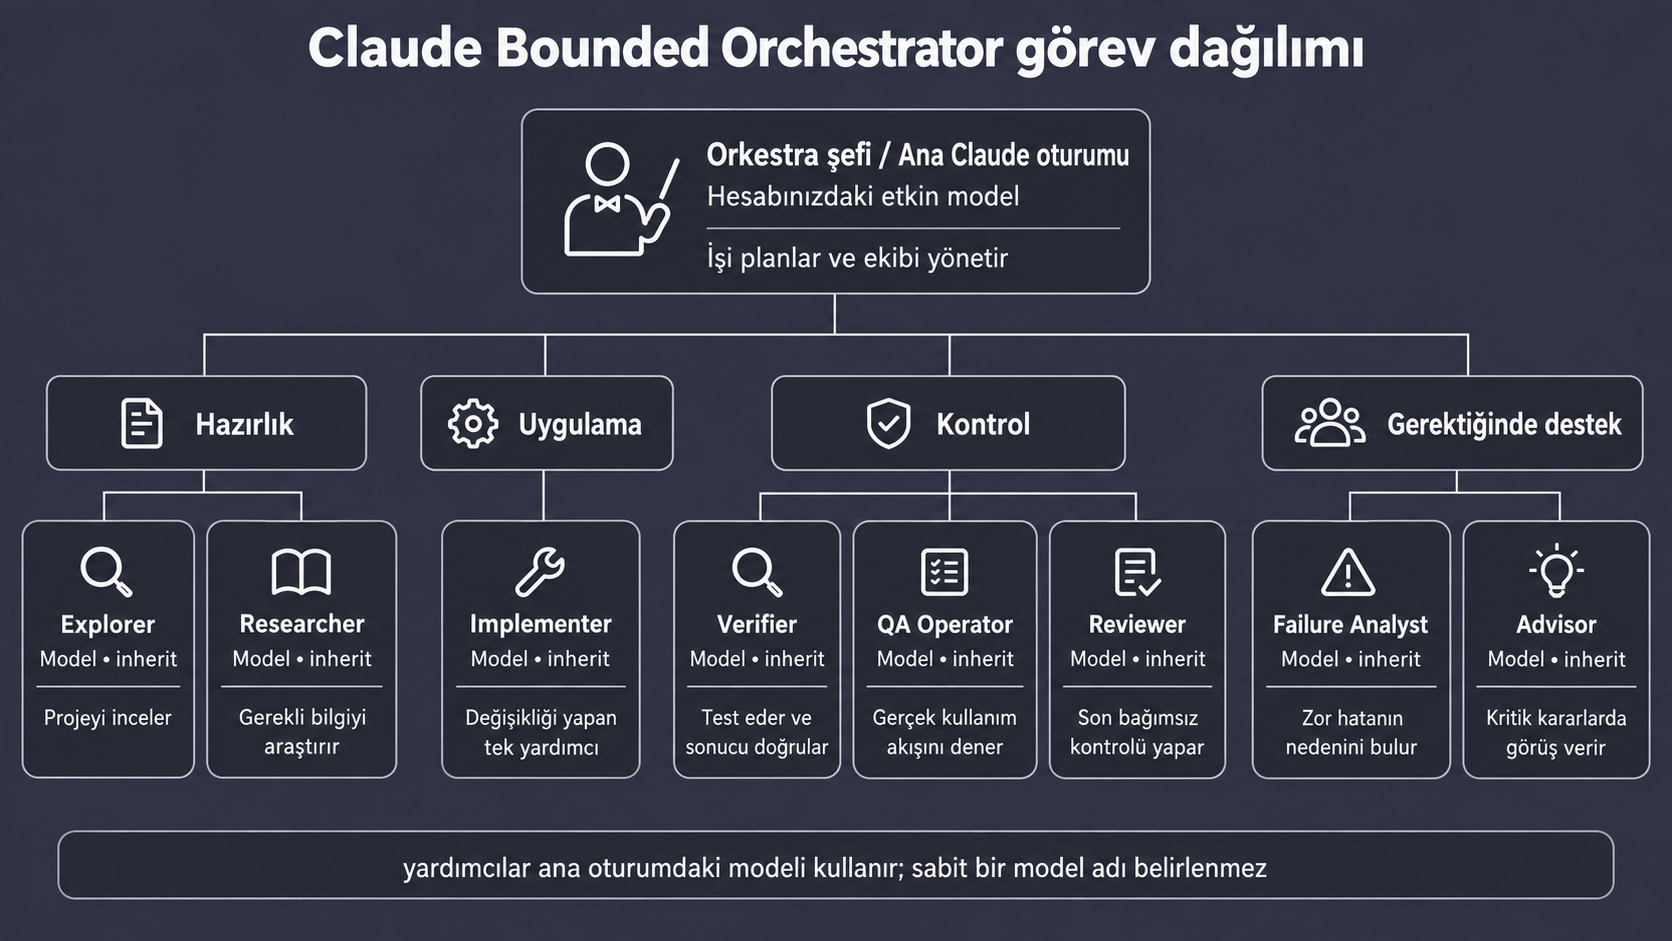
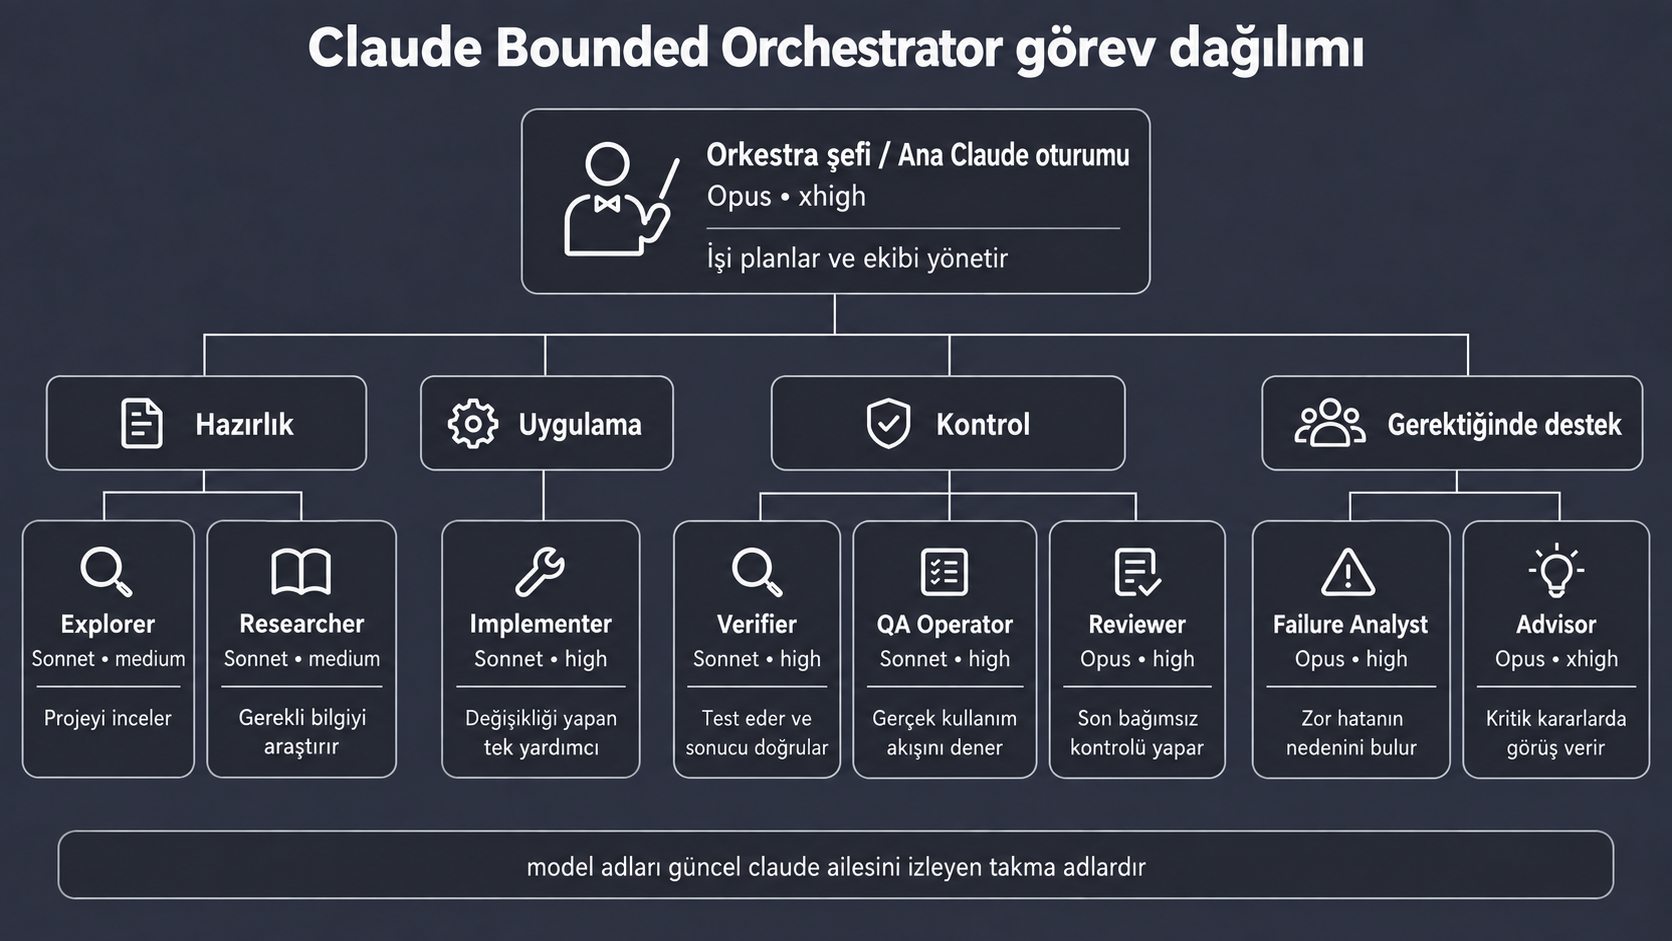
docs: align Claude role graphic and Turkish notes

diff --git a/docs/release-v0.2.0.tr.md b/docs/release-v0.2.0.tr.md
@@ -1,0 +1,29 @@
+[English](release-v0.2.0.md) | [Türkçe](release-v0.2.0.tr.md)
+
+# Claude Bounded Orchestrator v0.2.0
+
+0.2.0 sürümü, tarihli model kimliklerini sabitlemeden her rol için hedeflenen Claude model ailesini ve düşünme düzeyini açıkça belirtir.
+
+## Görev dağılımı
+
+| Rol | Model kısa adı | Düşünme düzeyi |
+|---|---|---|
+| Ana yönetici | `opus` | `xhigh` |
+| İnceleyici | `sonnet` | `medium` |
+| Araştırmacı | `sonnet` | `medium` |
+| Uygulayıcı | `sonnet` | `high` |
+| Kontrolcü | `sonnet` | `high` |
+| Kullanım kontrolcüsü | `sonnet` | `high` |
+| Hata çözümleyici | `opus` | `high` |
+| Son inceleyici | `opus` | `high` |
+| Danışman | `opus` | `xhigh` |
+
+## Güncelleme davranışı
+
+Yeni kurulumda ana yöneticinin varsayılanları `.claude/settings.json` dosyasına yazılır. Bu dosya zaten varsa kurulum onu korur ve elle inceleyip birleştirmeniz için `.claude/bounded-orchestrator.settings.example.json` oluşturur. Yardımcı dosyalarında çakışma varsa `--force` açıkça seçilmedikçe mevcut dosyalar korunur.
+
+Ortam değişkenleri ile oturum veya çalıştırma sırasında verilen seçenekler proje ayarlarının önüne geçebilir. Yardımcı dosyalarındaki ayarlar, desteklendiği yerde hedeflenen rol dağılımını belirtir; ortam düzeyindeki efor ayarı daha yüksek önceliğe sahip olabilir. Kullanılabilen modeller ve efor düzeyleri hesaba ve güncel Claude Code istemcisine bağlıdır.
+
+## Doğrulama sınırı
+
+Statik doğrulama ve testler, ayarlar ile belgelerin yardımcı tanımlarından sessizce uzaklaşmaması için görev dağılımının tamamını kontrol eder. Gerçek model seçimi Claude Code çalışma zamanına bağlıdır ve belgelenen canlı deneme ile doğrulanmalıdır.

diff --git a/README.tr.md b/README.tr.md
@@ -128,7 +128,7 @@ Talimatlar tek başına kesin bir güvenlik sınırı değildir. Yardımcı deri
 - [Sık sorulan sorular ve sorun giderme](docs/faq.md)
 - [Yol haritası](docs/roadmap.md)
 - [Canlı deneme rehberi](docs/runtime-smoke-test.md)
-- [v0.2.0 sürüm notları](docs/release-v0.2.0.md)
+- [v0.2.0 sürüm notları](docs/release-v0.2.0.tr.md)
 - [macOS/Linux kurulumu](INSTALL-MACOS.md)
 - [Windows kurulumu](INSTALL-WINDOWS.md)
 - [Katkı rehberi](CONTRIBUTING.md) · [Güvenlik](SECURITY.md) · [Değişiklikler](CHANGELOG.md)

diff --git a/docs/release-v0.2.0.md b/docs/release-v0.2.0.md
@@ -1,3 +1,5 @@
+[English](release-v0.2.0.md) | [Türkçe](release-v0.2.0.tr.md)
+
 # Claude Bounded Orchestrator v0.2.0
 
 Version 0.2.0 makes the intended model family and reasoning effort explicit for every role without pinning dated model IDs.
